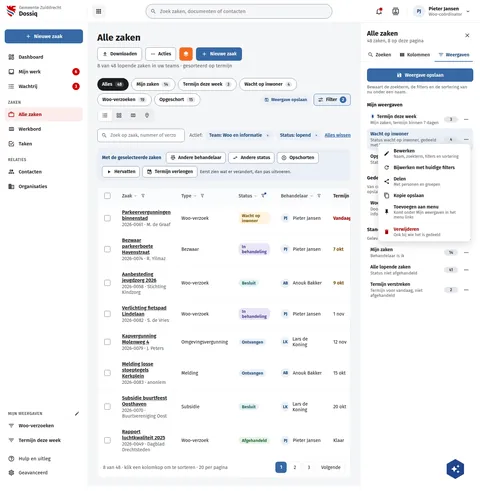
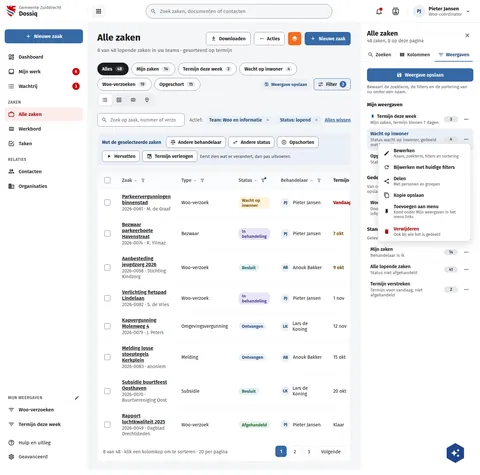
fix(screens): DqFilterBeheren and DqFilterInMenu put the page actions beside the title
Every other Dq index board draws Downloaden, Acties, the layers button and
Nieuwe zaak beside the title; on these two the side panel narrowed the
column and the 320px title basis pushed the buttons under it. The title
basis is 160px, so they sit beside it (coordinator decision, 24 Oct).

Assisted-by: ClaudeCode:claude-opus-5-5

diff --git a/preview/screens/boards/DqFilterInMenu.html b/preview/screens/boards/DqFilterInMenu.html
@@ -140,7 +140,7 @@ a{color:var(--sc-primary, #3669a5)}a:hover{color:var(--sc-primary-deep, #234a78)
       <main style="padding: 24px 28px; display: flex; flex-direction: column; gap: 20px; max-width: 1240px; box-sizing: border-box; width: 100%">
         <section style="display: flex; flex-direction: column; gap: 6px; padding: 4px 0 8px">
         <div style="display: flex; flex-wrap: wrap; justify-content: space-between; align-items: flex-start; gap: 12px 24px">
-          <h1 style="flex: 1 1 320px; min-width: 0; margin: 0; font-size: 28px; font-weight: 700; line-height: 1.2">Termijn deze week</h1>
+          <h1 style="flex: 1 1 160px; min-width: 0; margin: 0; font-size: 28px; font-weight: 700; line-height: 1.2">Termijn deze week</h1>
           <div style="flex: none; display: flex; flex-wrap: wrap; gap: 10px">
             <button type="button" style="display: flex; align-items: center; gap: 8px; height: 40px; padding: 0 14px; border: 1px solid var(--sc-work-field, #828a95); border-radius: 8px; background: #ffffff; font: 600 14px var(--sc-font, 'Fira Sans'), sans-serif; color: var(--sc-work-ink, #1b1c1d)"><svg width="16" height="16" viewbox="0 0 24 24" fill="currentColor"><path d="M13,5V11H14.17L12,13.17L9.83,11H11V5H13M15,3H9V9H5L12,16L19,9H15V3M19,18H5V20H19V18Z"></path></svg>Downloaden</button>
             <button type="button" aria-haspopup="menu" style="display: flex; align-items: center; gap: 8px; height: 40px; padding: 0 14px; border: 1px solid var(--sc-work-field, #828a95); border-radius: 8px; background: #ffffff; font: 600 14px var(--sc-font, 'Fira Sans'), sans-serif; color: var(--sc-work-ink, #1b1c1d)"><svg width="16" height="16" viewbox="0 0 24 24" fill="currentColor" aria-hidden="true"><path d="M16,12A2,2 0 0,1 18,10A2,2 0 0,1 20,12A2,2 0 0,1 18,14A2,2 0 0,1 16,12M10,12A2,2 0 0,1 12,10A2,2 0 0,1 14,12A2,2 0 0,1 12,14A2,2 0 0,1 10,12M4,12A2,2 0 0,1 6,10A2,2 0 0,1 8,12A2,2 0 0,1 6,14A2,2 0 0,1 4,12Z"></path></svg>Acties</button><button type="button" aria-label="buildiq" title="buildiq" style="display: flex; align-items: center; justify-content: center; width: 40px; height: 40px; border: 0; border-radius: 8px; background: #f36c21; color: #ffffff"><svg width="20" height="20" viewbox="0 0 24 24" fill="currentColor"><path d="M12,16L19.36,10.27L21,9L12,2L3,9L4.63,10.27M12,18.54L4.62,12.81L3,14.07L12,21.07L21,14.07L19.37,12.8L12,18.54Z"></path></svg></button>

diff --git a/preview/screens/boards/DqFilterBeheren.html b/preview/screens/boards/DqFilterBeheren.html
@@ -140,7 +140,7 @@ a{color:var(--sc-primary, #3669a5)}a:hover{color:var(--sc-primary-deep, #234a78)
       <main style="padding: 24px 28px; display: flex; flex-direction: column; gap: 20px; max-width: 1240px; box-sizing: border-box; width: 100%">
         <section style="display: flex; flex-direction: column; gap: 6px; padding: 4px 0 8px">
         <div style="display: flex; flex-wrap: wrap; justify-content: space-between; align-items: flex-start; gap: 12px 24px">
-          <h1 style="flex: 1 1 320px; min-width: 0; margin: 0; font-size: 28px; font-weight: 700; line-height: 1.2">Alle zaken</h1>
+          <h1 style="flex: 1 1 160px; min-width: 0; margin: 0; font-size: 28px; font-weight: 700; line-height: 1.2">Alle zaken</h1>
           <div style="flex: none; display: flex; flex-wrap: wrap; gap: 10px">
             <button type="button" style="display: flex; align-items: center; gap: 8px; height: 40px; padding: 0 14px; border: 1px solid var(--sc-work-field, #828a95); border-radius: 8px; background: #ffffff; font: 600 14px var(--sc-font, 'Fira Sans'), sans-serif; color: var(--sc-work-ink, #1b1c1d)"><svg width="16" height="16" viewbox="0 0 24 24" fill="currentColor"><path d="M13,5V11H14.17L12,13.17L9.83,11H11V5H13M15,3H9V9H5L12,16L19,9H15V3M19,18H5V20H19V18Z"></path></svg>Downloaden</button>
             <button type="button" aria-haspopup="menu" style="display: flex; align-items: center; gap: 8px; height: 40px; padding: 0 14px; border: 1px solid var(--sc-work-field, #828a95); border-radius: 8px; background: #ffffff; font: 600 14px var(--sc-font, 'Fira Sans'), sans-serif; color: var(--sc-work-ink, #1b1c1d)"><svg width="16" height="16" viewbox="0 0 24 24" fill="currentColor" aria-hidden="true"><path d="M16,12A2,2 0 0,1 18,10A2,2 0 0,1 20,12A2,2 0 0,1 18,14A2,2 0 0,1 16,12M10,12A2,2 0 0,1 12,10A2,2 0 0,1 14,12A2,2 0 0,1 12,14A2,2 0 0,1 10,12M4,12A2,2 0 0,1 6,10A2,2 0 0,1 8,12A2,2 0 0,1 6,14A2,2 0 0,1 4,12Z"></path></svg>Acties</button><button type="button" aria-label="buildiq" title="buildiq" style="display: flex; align-items: center; justify-content: center; width: 40px; height: 40px; border: 0; border-radius: 8px; background: #f36c21; color: #ffffff"><svg width="20" height="20" viewbox="0 0 24 24" fill="currentColor"><path d="M12,16L19.36,10.27L21,9L12,2L3,9L4.63,10.27M12,18.54L4.62,12.81L3,14.07L12,21.07L21,14.07L19.37,12.8L12,18.54Z"></path></svg></button>

diff --git a/screens-src/zuiddrecht/DqFilterInMenu.dc.html b/screens-src/zuiddrecht/DqFilterInMenu.dc.html
@@ -22,7 +22,7 @@ a{color:#3669a5}a:hover{color:#234a78}
       <main style="padding: 24px 28px; display: flex; flex-direction: column; gap: 20px; max-width: 1240px; box-sizing: border-box; width: 100%">
         <section style="display: flex; flex-direction: column; gap: 6px; padding: 4px 0 8px">
         <div style="display: flex; flex-wrap: wrap; justify-content: space-between; align-items: flex-start; gap: 12px 24px">
-          <h1 style="flex: 1 1 320px; min-width: 0; margin: 0; font-size: 28px; font-weight: 700; line-height: 1.2">Termijn deze week</h1>
+          <h1 style="flex: 1 1 160px; min-width: 0; margin: 0; font-size: 28px; font-weight: 700; line-height: 1.2">Termijn deze week</h1>
           <div style="flex: none; display: flex; flex-wrap: wrap; gap: 10px">
             <button type="button" style="display: flex; align-items: center; gap: 8px; height: 40px; padding: 0 14px; border: 1px solid #828a95; border-radius: 8px; background: #ffffff; font: 600 14px 'Fira Sans', sans-serif; color: #1b1c1d"><svg width="16" height="16" viewBox="0 0 24 24" fill="currentColor"><path d="M13,5V11H14.17L12,13.17L9.83,11H11V5H13M15,3H9V9H5L12,16L19,9H15V3M19,18H5V20H19V18Z"></path></svg>Downloaden</button>
             <button type="button" aria-haspopup="menu" style="display: flex; align-items: center; gap: 8px; height: 40px; padding: 0 14px; border: 1px solid #828a95; border-radius: 8px; background: #ffffff; font: 600 14px 'Fira Sans', sans-serif; color: #1b1c1d"><svg width="16" height="16" viewBox="0 0 24 24" fill="currentColor" aria-hidden="true"><path d="M16,12A2,2 0 0,1 18,10A2,2 0 0,1 20,12A2,2 0 0,1 18,14A2,2 0 0,1 16,12M10,12A2,2 0 0,1 12,10A2,2 0 0,1 14,12A2,2 0 0,1 12,14A2,2 0 0,1 10,12M4,12A2,2 0 0,1 6,10A2,2 0 0,1 8,12A2,2 0 0,1 6,14A2,2 0 0,1 4,12Z"></path></svg>Acties</button><button type="button" aria-label="buildiq" title="buildiq" style="display: flex; align-items: center; justify-content: center; width: 40px; height: 40px; border: 0; border-radius: 8px; background: #f36c21; color: #ffffff"><svg width="20" height="20" viewBox="0 0 24 24" fill="currentColor"><path d="M12,16L19.36,10.27L21,9L12,2L3,9L4.63,10.27M12,18.54L4.62,12.81L3,14.07L12,21.07L21,14.07L19.37,12.8L12,18.54Z"></path></svg></button>

diff --git a/screens-src/zuiddrecht/DqFilterBeheren.dc.html b/screens-src/zuiddrecht/DqFilterBeheren.dc.html
@@ -22,7 +22,7 @@ a{color:#3669a5}a:hover{color:#234a78}
       <main style="padding: 24px 28px; display: flex; flex-direction: column; gap: 20px; max-width: 1240px; box-sizing: border-box; width: 100%">
         <section style="display: flex; flex-direction: column; gap: 6px; padding: 4px 0 8px">
         <div style="display: flex; flex-wrap: wrap; justify-content: space-between; align-items: flex-start; gap: 12px 24px">
-          <h1 style="flex: 1 1 320px; min-width: 0; margin: 0; font-size: 28px; font-weight: 700; line-height: 1.2">Alle zaken</h1>
+          <h1 style="flex: 1 1 160px; min-width: 0; margin: 0; font-size: 28px; font-weight: 700; line-height: 1.2">Alle zaken</h1>
           <div style="flex: none; display: flex; flex-wrap: wrap; gap: 10px">
             <button type="button" style="display: flex; align-items: center; gap: 8px; height: 40px; padding: 0 14px; border: 1px solid #828a95; border-radius: 8px; background: #ffffff; font: 600 14px 'Fira Sans', sans-serif; color: #1b1c1d"><svg width="16" height="16" viewBox="0 0 24 24" fill="currentColor"><path d="M13,5V11H14.17L12,13.17L9.83,11H11V5H13M15,3H9V9H5L12,16L19,9H15V3M19,18H5V20H19V18Z"></path></svg>Downloaden</button>
             <button type="button" aria-haspopup="menu" style="display: flex; align-items: center; gap: 8px; height: 40px; padding: 0 14px; border: 1px solid #828a95; border-radius: 8px; background: #ffffff; font: 600 14px 'Fira Sans', sans-serif; color: #1b1c1d"><svg width="16" height="16" viewBox="0 0 24 24" fill="currentColor" aria-hidden="true"><path d="M16,12A2,2 0 0,1 18,10A2,2 0 0,1 20,12A2,2 0 0,1 18,14A2,2 0 0,1 16,12M10,12A2,2 0 0,1 12,10A2,2 0 0,1 14,12A2,2 0 0,1 12,14A2,2 0 0,1 10,12M4,12A2,2 0 0,1 6,10A2,2 0 0,1 8,12A2,2 0 0,1 6,14A2,2 0 0,1 4,12Z"></path></svg>Acties</button><button type="button" aria-label="buildiq" title="buildiq" style="display: flex; align-items: center; justify-content: center; width: 40px; height: 40px; border: 0; border-radius: 8px; background: #f36c21; color: #ffffff"><svg width="20" height="20" viewBox="0 0 24 24" fill="currentColor"><path d="M12,16L19.36,10.27L21,9L12,2L3,9L4.63,10.27M12,18.54L4.62,12.81L3,14.07L12,21.07L21,14.07L19.37,12.8L12,18.54Z"></path></svg></button>
